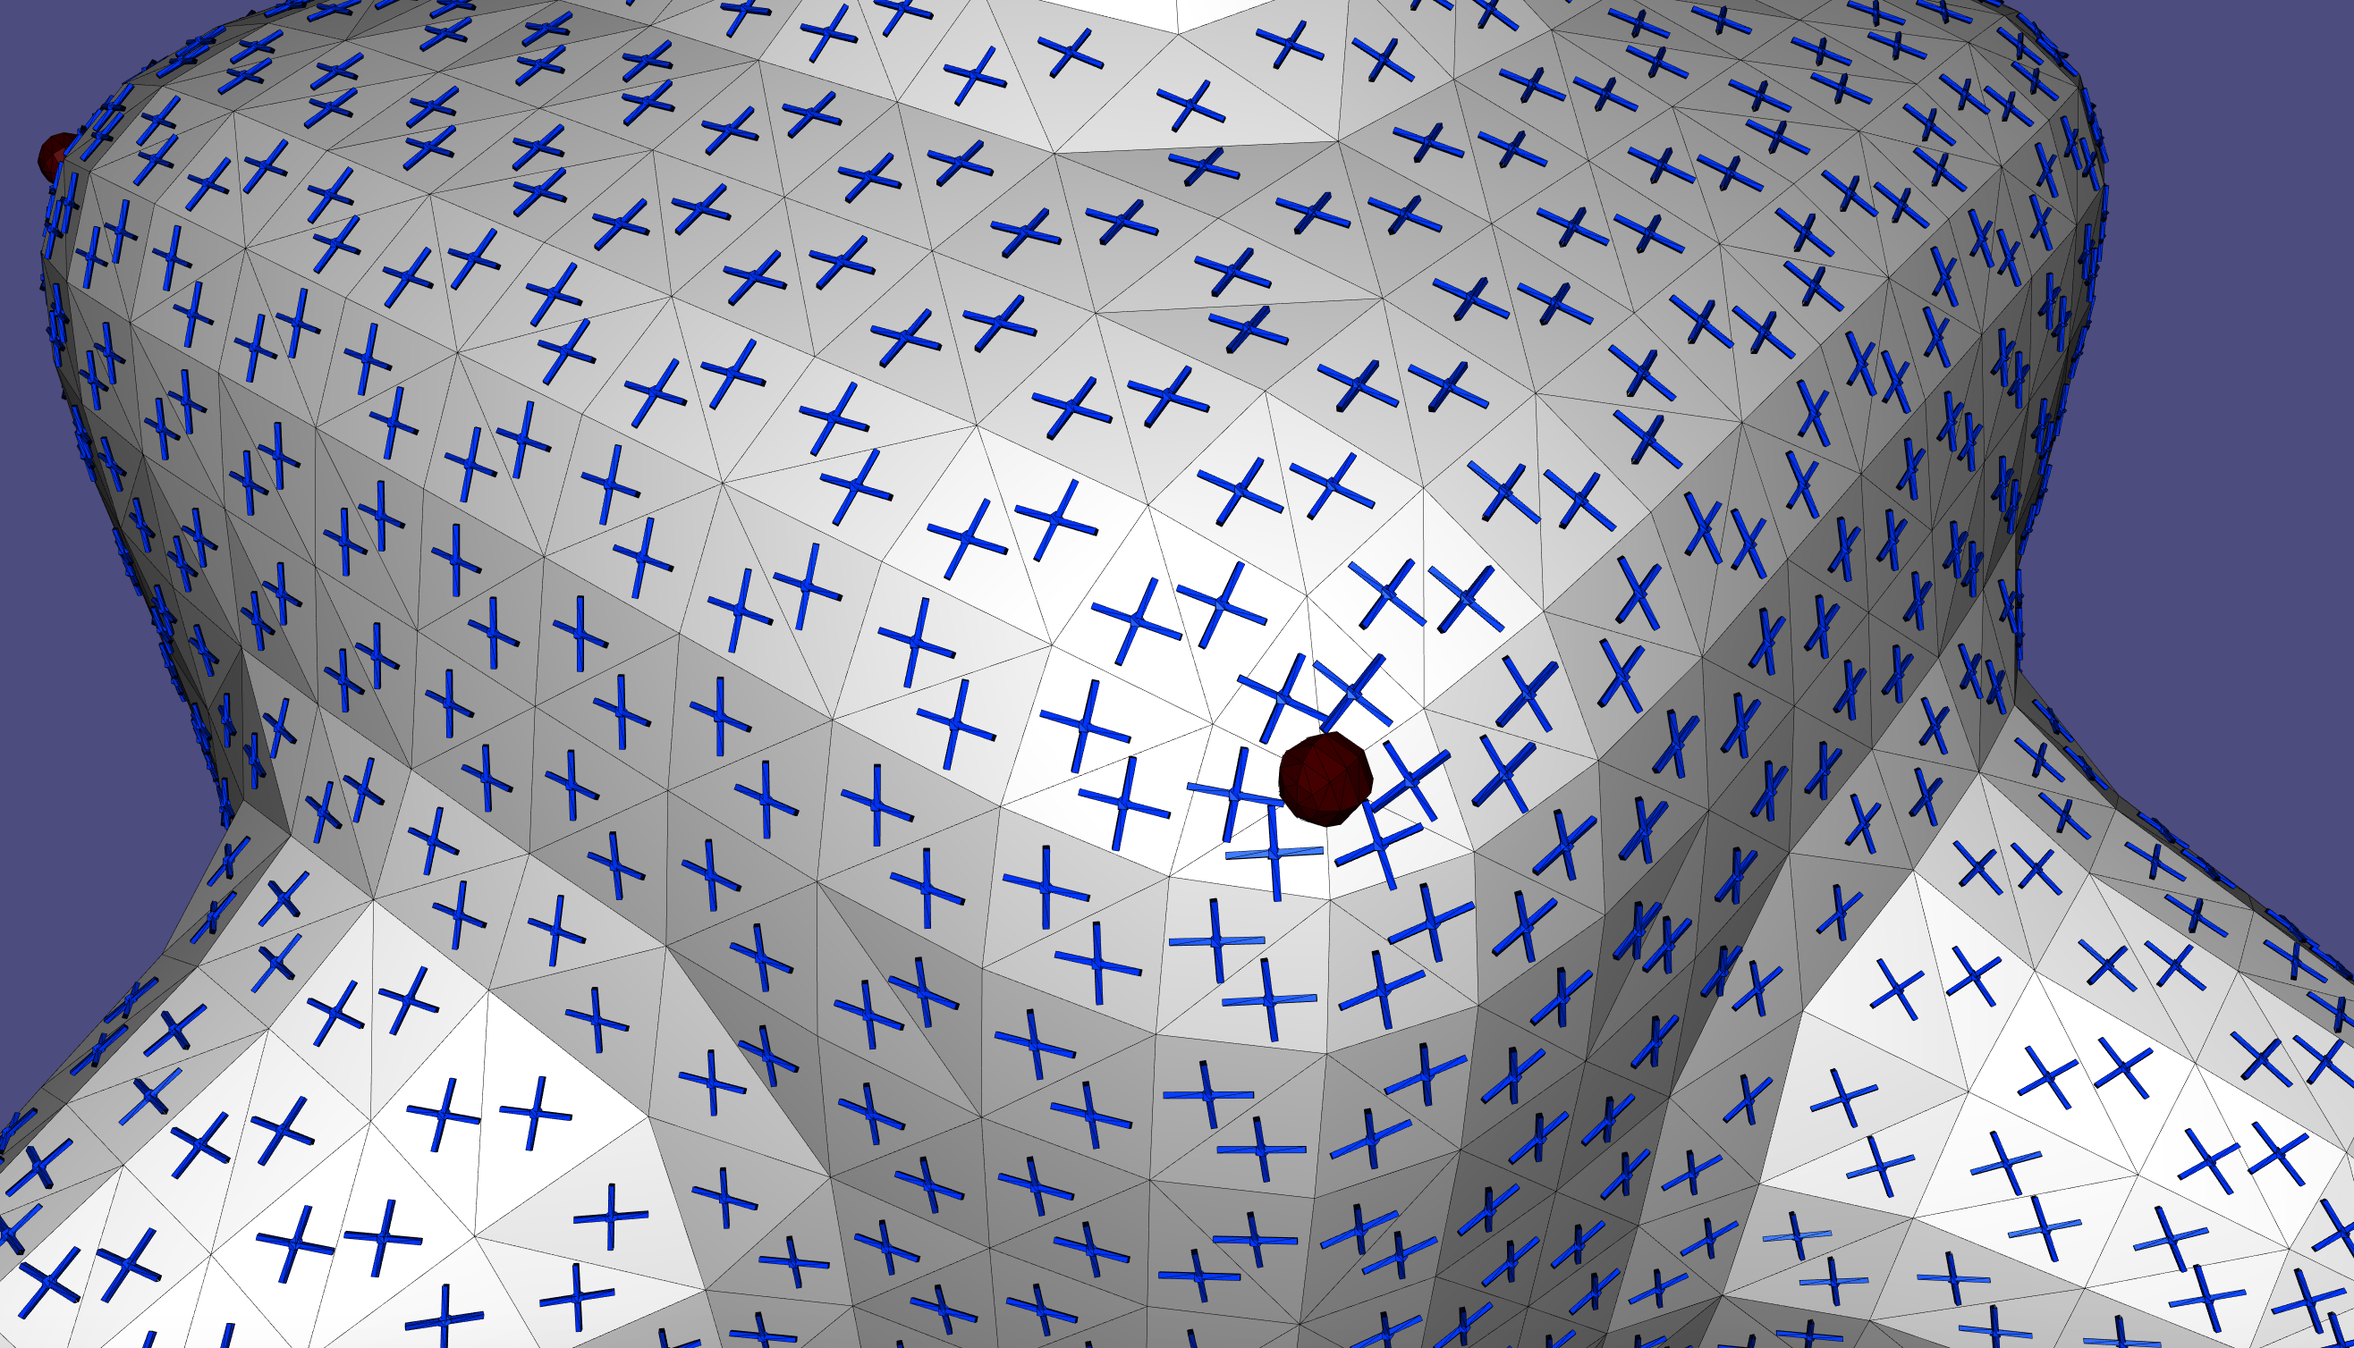
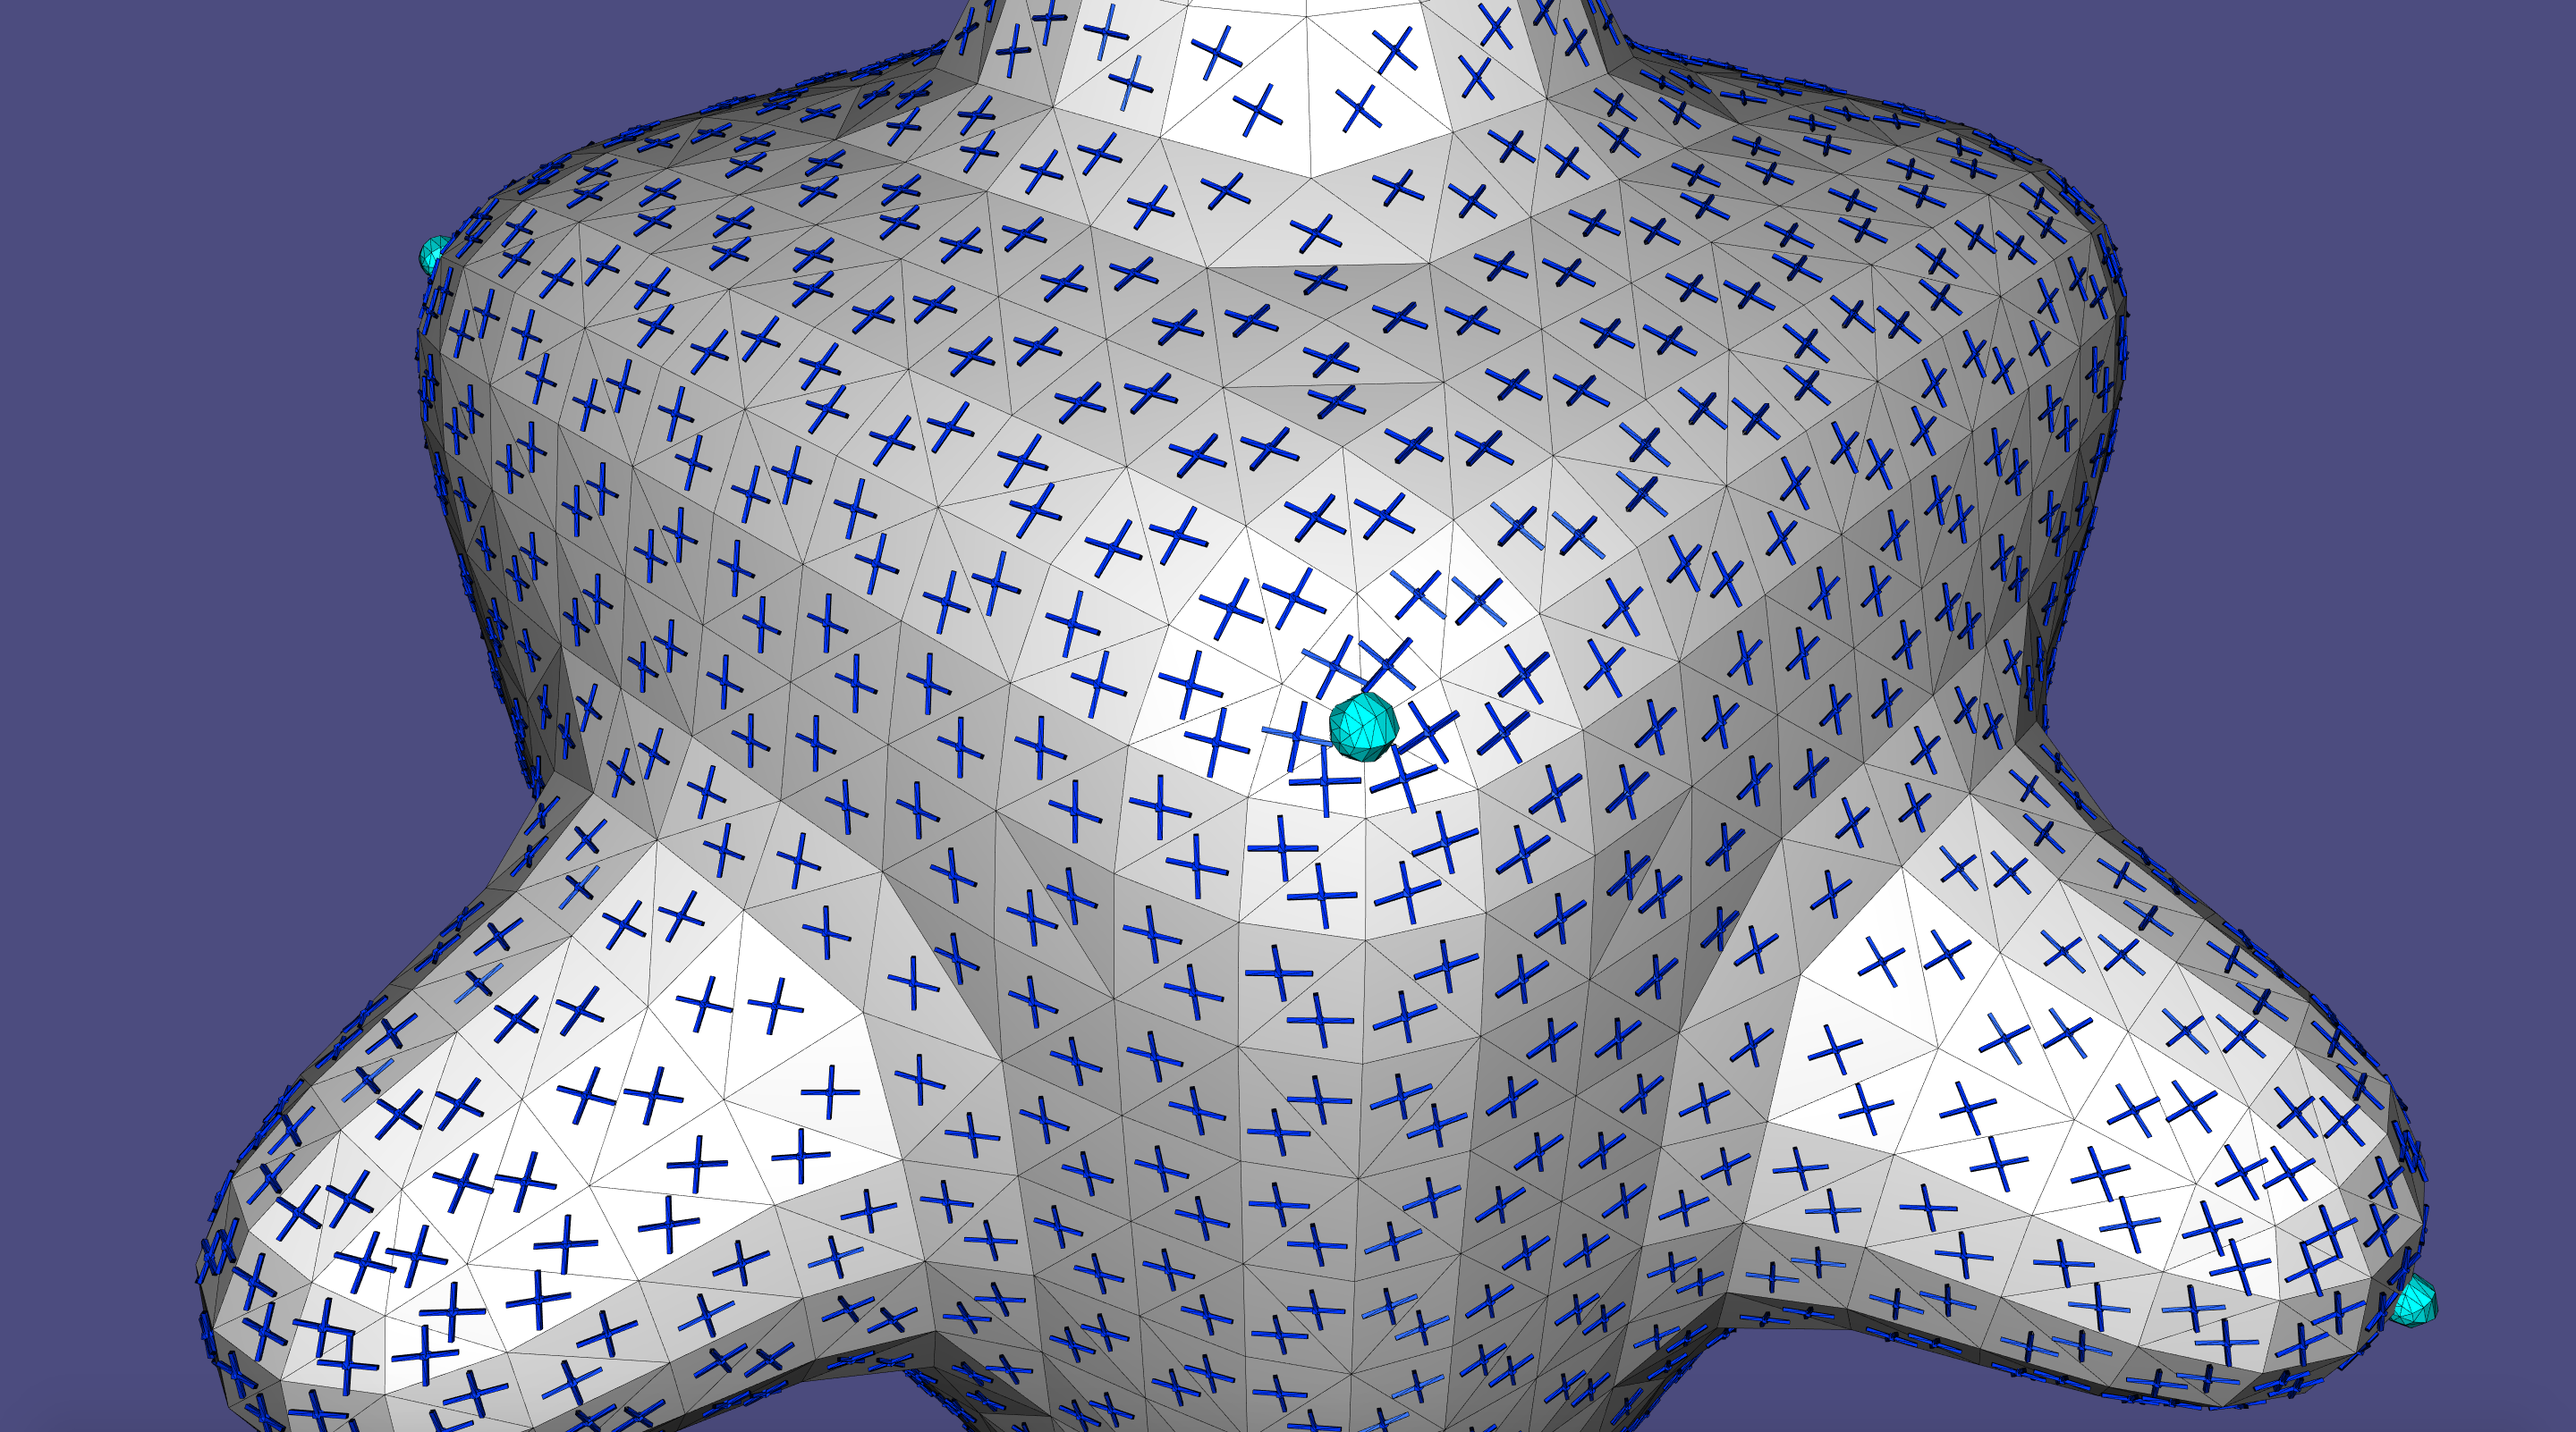
Proofed up to 101 including.

diff --git a/tutorial/tutorial.md b/tutorial/tutorial.md
@@ -13,18 +13,18 @@ html header:   <script type="text/javascript" src="http://cdn.mathjax.org/mathja
 
 * [Introduction](#chapter0:introduction)
 * [Chapter 1: I/O and Visualization](#chapter1:iovis)
-    * [101 Basic Glyph Rendering](#glyphrendering)
+    * [101 Basic glyph rendering](#glyphrendering)
     * [102 Picking and editing](#pickingediting)
-    * [103 Streamline Tracing](#streamlinetracing)
-* [Chapter 2: Discretization and Representation](#chapter2:discandrep)
+    * [103 Streamline tracing](#streamlinetracing)
+* [Chapter 2: Discretization and representation](#chapter2:discandrep)
     * [Discretization](#discretization)
     * [Representation](#representation)
-    * [201 Principal Matching](#principalmatching)
+    * [201 Principal matching](#principalmatching)
     * [202 Sampling](#sampling)
     * [203 Combing](#combing)
-* [Chapter 3: Cartesian Methods](#chapter3:cartesian)
-    * [Cartesian Fields](#cartesian)
-    * [301 Globally Optimal Fields](#globallyoptimal)
+* [Chapter 3: Cartesian methods](#chapter3:cartesian)
+    * [Cartesian fields](#cartesian)
+    * [301 Power fields](#powerfields)
     * [302 PolyVectors](#polyvectors)
     * [303 Integrable PolyVectors](#integrablePVs)
     * [304 Conjugate Fields](#conjugatefields)
@@ -36,7 +36,7 @@ html header:   <script type="text/javascript" src="http://cdn.mathjax.org/mathja
 
 
 # Introduction [chapter0:introduction]
-libdirectional is a C++ geometry processing library written as an extension to [libigl](http://libigl.github.io/libigl/), with a  speciality in directional fields. The functionality is based on the definitions and arrangement surveyed theoretically in [#vaxman_2016], and through it by much of the relevant papers in the literature. It contains tools to edit, analyze, and visualize directional fields of various degrees and symmetries. 
+libdirectional is a C++ geometry processing library written as an extension to [libigl](http://libigl.github.io/libigl/), with a  speciality in directional fields. The functionality is based on the definitions and taxonomy surveyed theoretically in [#vaxman_2016], and through it by much of the relevant papers in the literature. It contains tools to edit, analyze, and visualize directional fields of various degrees and symmetries. 
 
 The underlying structure extends the general philosophy of [libigl](http://libigl.github.io/libigl/): the library is header only, where each header contains a set (often only one) of functions closely related (for instance, the precomputation and computation of some directional quantity over a mesh). The data structures are, for the most part, simple matrices in [Eigen](http://eigen.tuxfamily.org/index.php?title=Main_Page), and the library avoids complicated and nested structures, instead directly working with calling to standalone functions. The visualization is done using the libigl viewer with some extended options that allow the rendering of directional fields.
 
@@ -56,9 +56,9 @@ make
 
 This will build all tutorial examples in the `build` folder. To build in windows, use the `cmake-gui .` options instead of the last two, and creates the project using Visual Studio, with the proper tutorial chapter as the "startup project". 
 
-To access a single example, say ``202_Sampling``, go to the ``build`` and the executable will be there. Command-line arguments are never required; the data is read from the ``shared`` folder automatically in each example. 
+To access a single example, say ``202_Sampling``, go to the ``build`` subfolder, and the executable will be there. Command-line arguments are never required; the data is read from the ``shared`` folder directly for each example. 
 
-Most examples contain a component of user interaction; the instruction on what to do will be given in the commandline output immediately after executing the example.
+Most examples contain a component of user interaction; the instructions of what to do will be given in the command-line output upon execution.
 
 # Chapter 1: I/O and Visualization [chapter1:iovis]
 
@@ -71,9 +71,9 @@ directional::read_raw_field(TUTORIAL_SHARED_PATH "/bumpy.rawfield", N, rawField)
 directional::read_singularities(TUTORIAL_SHARED_PATH "/bumpy.sings", N, singPositions, singIndices);
 ```
 
-The field is read in <i>raw</i> format, which is detailed in [Chapter 2: Discretization and Representation](#chapter2:discandrep). The field is <i>face-based</i>, and the singularities are then <i>vertex-based</i>. 
+The field is read in <i>raw</i> format, which is detailed in [Chapter 2: Discretization and Representation](#chapter2:discandrep). The field is <i>face-based</i>, and the singularities are consequently <i>vertex-based</i>. 
 
-The field is then drawn on the mesh as follows:
+The field is drawn on the mesh as follows:
 
 ```cpp
 if (drawSingularities)
@@ -82,15 +82,15 @@ if (drawSingularities)
   directional::glyph_lines_raw(V, F, rawField, rawGlyphColor, false, true, fullV, fullF, fullC);
 ```
 
-These two operations in fact do not produce any drawing; they create meshes that extend the original geometry, and then get passed to libigl viewer. 
+These two operations do not produce any active drawing; they create meshes that extend the original geometry, and then get passed to libigl viewer. 
 
-``directional::singularity_spheres`` creates small spheres on vertices, where the size of the sphere is devised automatically (but can be configured using the extended version of this function. The spheres are only created where the index is different than $0$.
+``directional::singularity_spheres()`` creates small spheres on vertices, where the size of the sphere is devised automatically (but can be configured using the extended version of this function). The spheres are only created where the index is different than $0$.
 
-``directional::glyph_lines_raw`` creates lines on the faces that constitute the simple <i>glyph drawing</i>: simply drawing the vectors upon the faces as they are. There are several ways to give colors to these vectors, which can be individual or global; check the documentation to the function in the header.
+``directional::glyph_lines_raw()`` creates lines on the faces that constitute the <i>glyph drawing</i>: simply drawing the vectors upon the faces in their $\left(x,y,z\right)$ coordinates, starting from the face barycenter. There are several ways to give colors to these vectors, which can be individual or global; check the documentation to the function in the header.
   
-By default, the size of each vector is set to be related to the average edge length, keeping the ratios between the lengths of the actual vectors intact. The base length and with can be manually set by the extended version of the function. 
+Vectors are drawn in their given magnitudes, up to a global scale. By default, this scale is set to be related to the average edge length---it can be manually set by the extended version of the function. 
 
-![([Example 101](101_GlyphRendering/main.cpp)) Glyph Rendering on a mesh.](images/101_GlyphRendering.png)
+![([Example 101](101_GlyphRendering/main.cpp)) Glyph Rendering on a mesh, with singularities visible.](images/101_GlyphRendering.png) 
 
 ## [102 Picking and editing](#pickingediting)[pickingediting]
 
